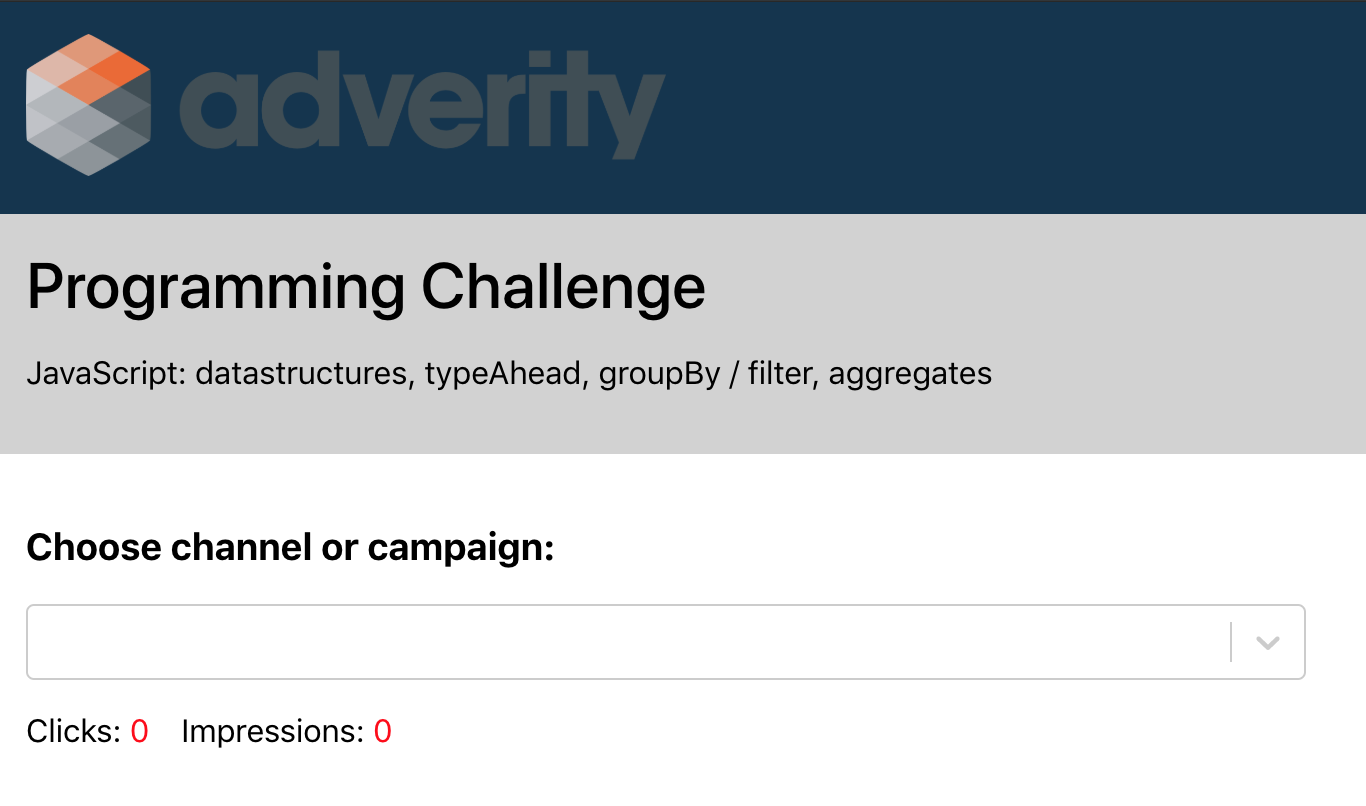
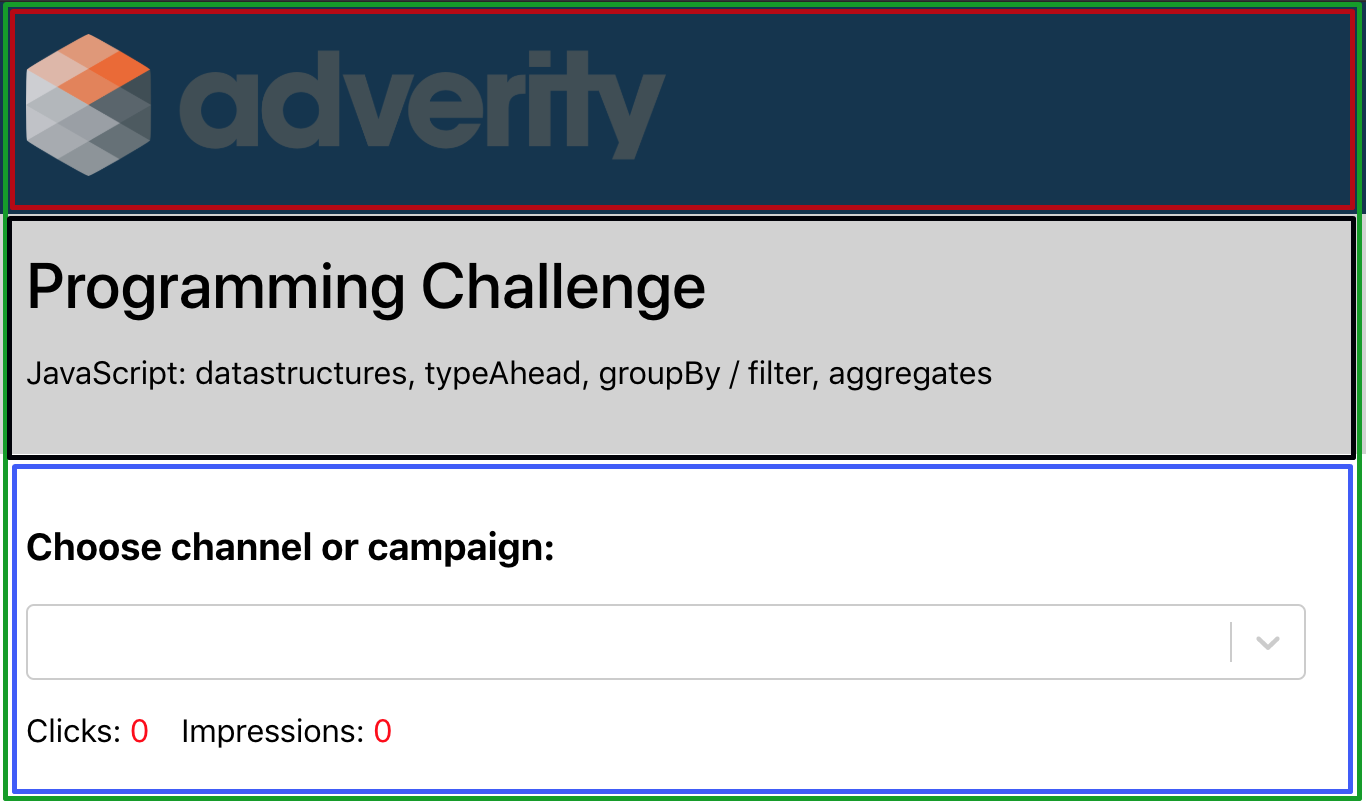
Updated README file

Changed region(s): [[0.0, 0.0, 1.0, 1.0]]

diff --git a/README.md b/README.md
@@ -1,0 +1,14 @@
+# Project description
+
+## Components:
+
+- ### Header
+  ##### Stateless React component returns div element with company logo which is passed as a prop from App component.
+- ### Title
+  ##### Stateless component returns div element with title and description passed as a prop from App component.
+- ### DisplayMetrics
+  ##### A stateful component which receives parsed CSV data through props from the App component. After receiving parsed data it will be created suggestions for a select field which contains campaign and channel values from received data. Depending on user select choice it will be calculated the number of total clicks and impressions for selected channel or campaign. This is implemented in a calculateClicksAndImpressions method. In render, the component returns div element which contains a title, select element from react-select and two labels where is displayed current values for clicks and impressions.
+- ### App
+  ##### The App component is stateful and it is the main component which passes props to previous components and renders it. Axios get request is sent for getting data from a server. After receiving, data are parsed with Papa parser for CSV file format and passed as a prop to DisplayMetrics component.
+
+![App UI](src/img/app_ui.png)
